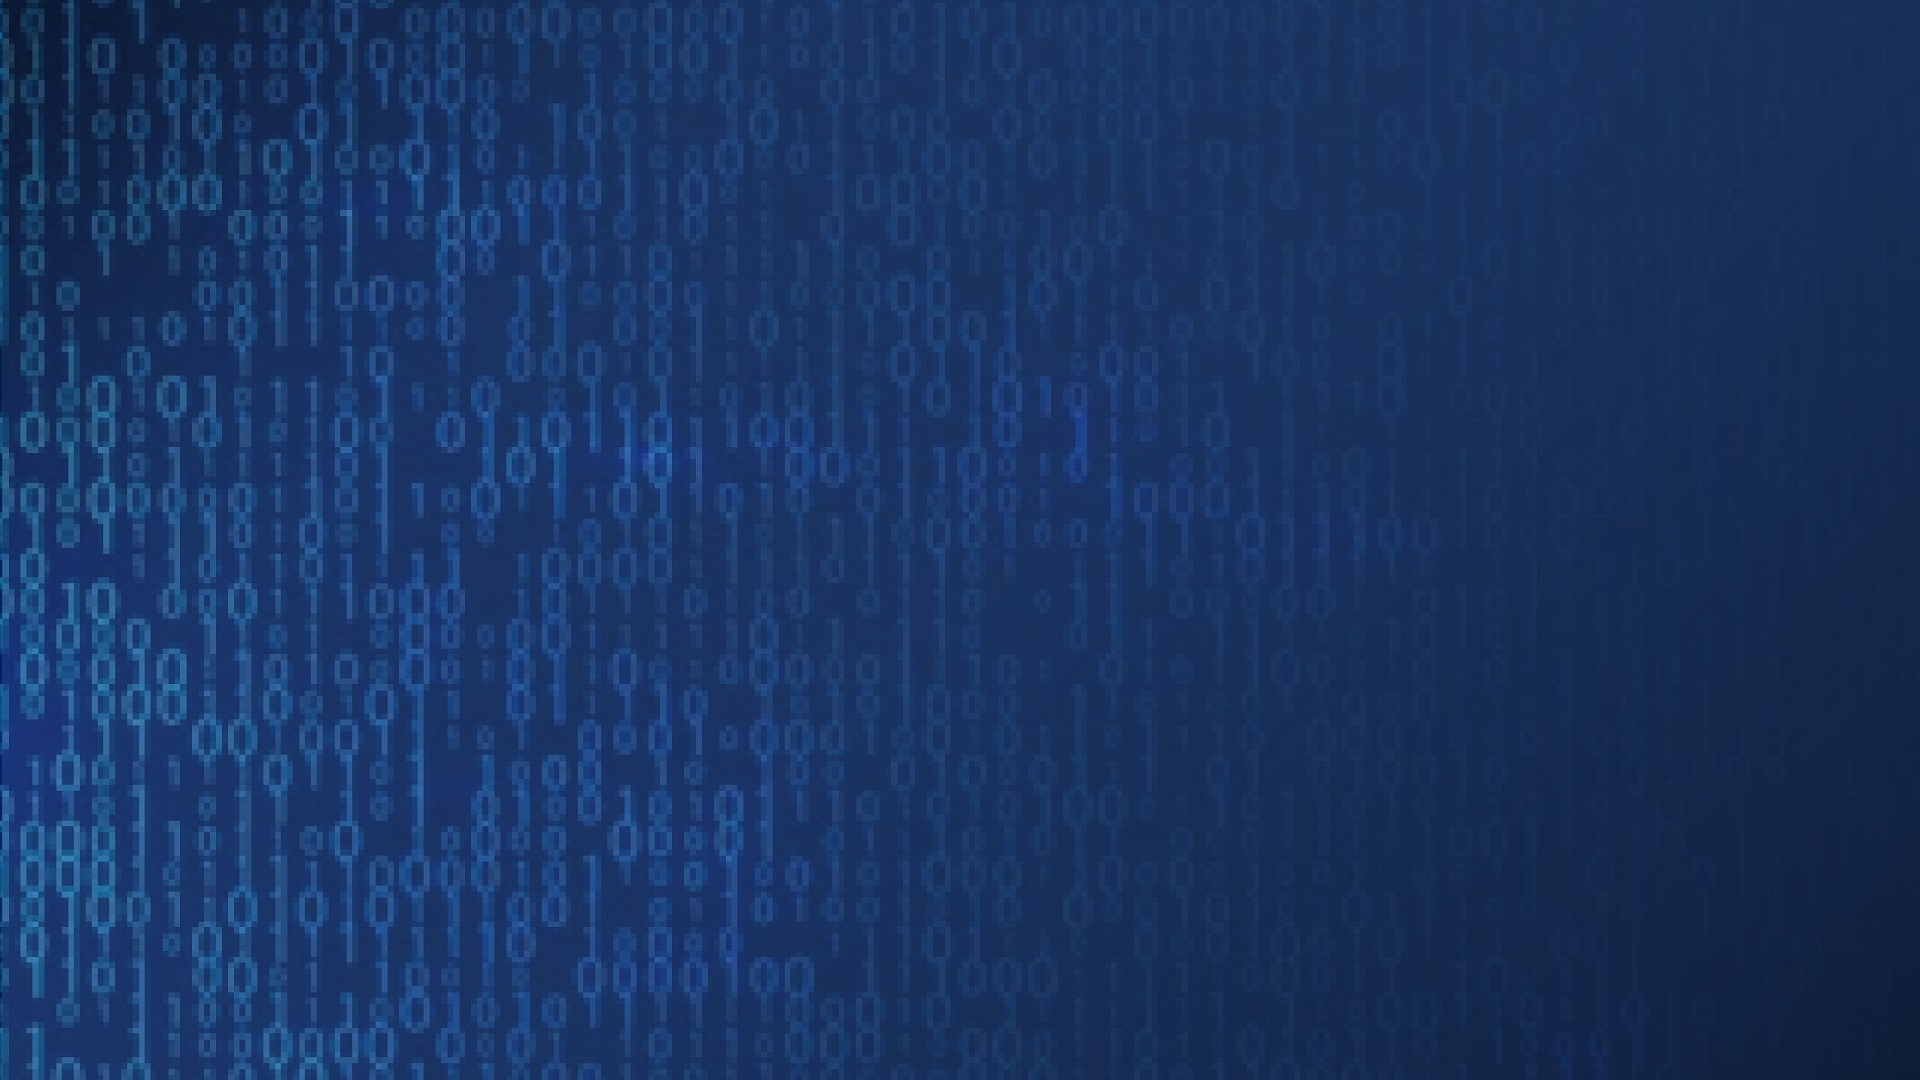
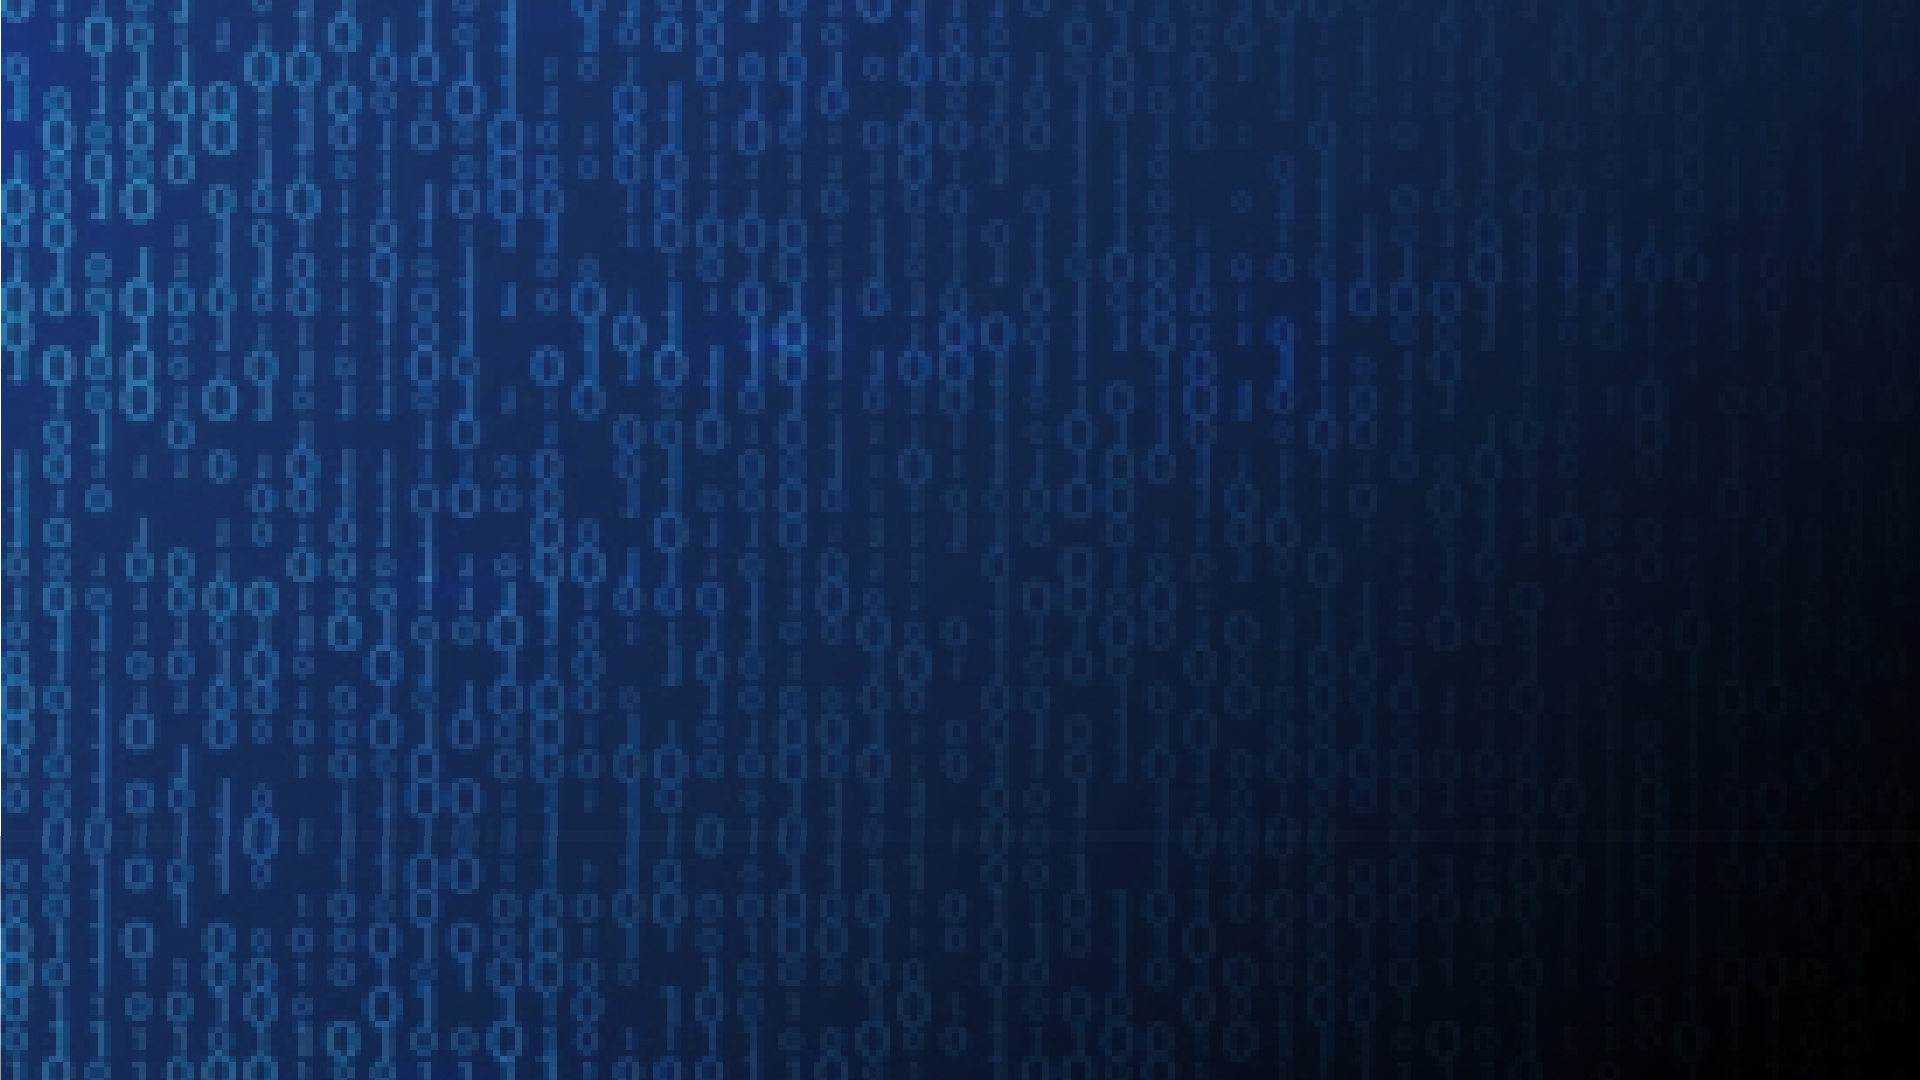
style and bgs

diff --git a/css/styles.css b/css/styles.css
@@ -756,6 +756,38 @@ input[type='checkbox'] {
 	background-size: cover; 
 }
 
+.header1 {
+	background: linear-gradient(rgba(145, 74, 218, 0), rgba(145, 74, 218, 0)), url('../images/domainBG2.jpg') center center no-repeat;
+	background-size: cover; 
+}
+
+.header1 .header-content1 {
+	padding-top: 10rem;
+	padding-bottom: 8rem;
+	text-align: center;
+}
+
+.header1 .image-container {
+	display: none;
+}
+
+.header1 .h1-large,
+.header1 .p-large {
+	color: rgb(0, 0, 0);
+}
+
+.header1 .h1-large {
+	margin-bottom: 1rem;
+}
+
+.header1 .p-large {
+	margin-bottom: 1.75rem;
+	font-size: 1.125rem;
+	line-height: 1.75rem;
+}
+
+
+
 .header .header-content {
 	padding-top: 10rem;
 	padding-bottom: 8rem;

diff --git a/index.html b/index.html
@@ -119,8 +119,8 @@
     </header> <!-- end of header -->
 
     <div id="services"></div>
-    <header id="header" class="header">
-        <div class="header-content">
+    <header id="header1" class="header1">
+        <div class="header-content1">
             <div class="container">
                 <div class="row">
                     <div class="text-container">
